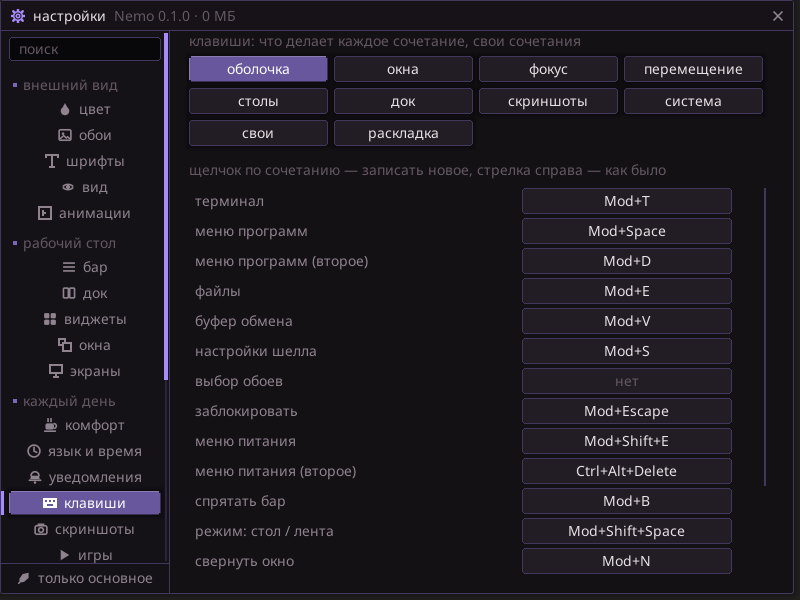
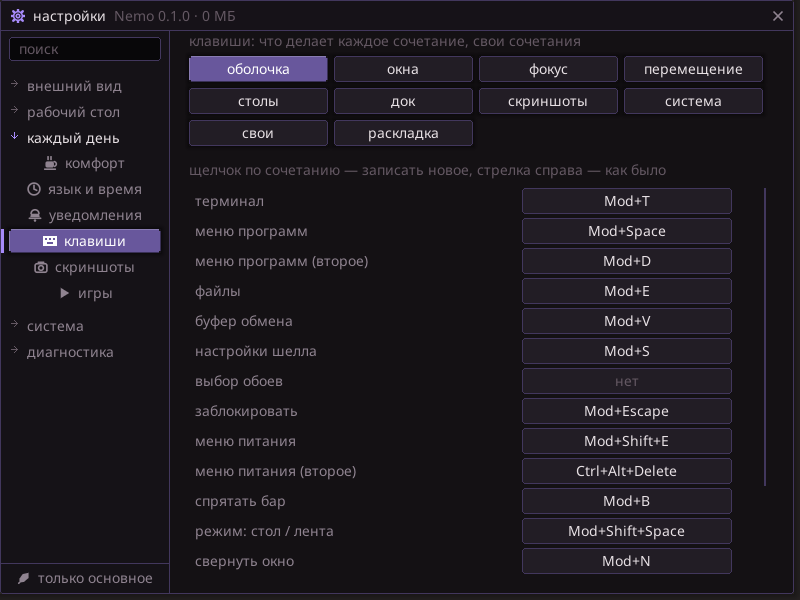
Settings side list opens one group, wheel steps, more personality, golden refresh

diff --git a/shell/src/personality.rs b/shell/src/personality.rs
@@ -15,31 +15,58 @@ pub enum Event {
     BatteryFull,
     CaffeineEnded,
     UpdateReady,
+    /// вернулся к заблокированному экрану
+    Unlocked,
+    /// очистил все уведомления (только в игривом режиме)
+    NotifsCleared,
 }
 
-const EVENTS: usize = 5;
+const EVENTS: usize = 7;
 
 impl Event {
+    /// эти события — только в игривом режиме: тихий характер говорит про систему, а не про каждое действие
+    fn playful_only(self) -> bool {
+        matches!(self, Event::Unlocked | Event::NotifsCleared)
+    }
+
     fn idx(self) -> usize {
         self as usize
     }
 }
 
-/// фраза про событие на языке интерфейса; None — на этом языке её нет
-pub fn quip(ev: Event, lang: &str) -> Option<&'static str> {
-    let (en, ar, ru) = match ev {
-        Event::ChargerOn => ("Plugged in. The tide is coming in.", "تم التوصيل. المدّ قادم.", "Подключено. Прилив начался."), // i18n-ok
-        Event::ChargerOff => ("Unplugged. Swimming on battery.", "فُصل الشاحن. نسبح على البطارية.", "Отключено. Плывём на батарее."), // i18n-ok
-        Event::BatteryFull => ("Full tank. You can unplug.", "اكتمل الشحن. يمكنك فصله.", "Полный бак. Можно отключать."), // i18n-ok
-        Event::CaffeineEnded => ("Your eyes could use a rest, too.", "عيناك أيضًا تحتاجان إلى راحة.", "И глазам пора отдохнуть."), // i18n-ok
-        Event::UpdateReady => ("Fresh water is ready.", "الماء العذب جاهز.", "Свежая вода готова."), // i18n-ok
-    };
-    match lang {
-        "en" => Some(en),
-        "ar" => Some(ar),
-        "ru" => Some(ru),
-        _ => None,
+/// фразы про событие на языке интерфейса; пустой список — на этом языке их нет. Их несколько: рыбка не повторяется слово в слово
+fn lines(ev: Event, lang: &str) -> &'static [&'static str] {
+    // i18n-ok: фразы характера лежат здесь на трёх языках, а не в таблицах перевода
+    match (ev, lang) {
+        (Event::ChargerOn, "en") => &["Plugged in. The tide is coming in.", "Charging. Back to the deep end soon.", "Power again. Take a breath."],
+        (Event::ChargerOn, "ar") => &["تم التوصيل. المدّ قادم.", "يجري الشحن. نعود إلى الأعماق قريبًا."],
+        (Event::ChargerOn, "ru") => &["Подключено. Прилив начался.", "Зарядка пошла. Скоро снова на глубину.", "Питание вернулось. Можно выдохнуть."], // i18n-ok
+        (Event::ChargerOff, "en") => &["Unplugged. Swimming on battery.", "Off the wall. Let's keep it short.", "On our own fins now."],
+        (Event::ChargerOff, "ar") => &["فُصل الشاحن. نسبح على البطارية.", "نسبح بزعانفنا وحدنا الآن."],
+        (Event::ChargerOff, "ru") => &["Отключено. Плывём на батарее.", "Без розетки. Давай недолго.", "Теперь на своих плавниках."], // i18n-ok
+        (Event::BatteryFull, "en") => &["Full tank. You can unplug.", "Topped up. The cable can rest."],
+        (Event::BatteryFull, "ar") => &["اكتمل الشحن. يمكنك فصله.", "امتلأ الخزان. يمكن للكابل أن يرتاح."],
+        (Event::BatteryFull, "ru") => &["Полный бак. Можно отключать.", "Налито до краёв. Кабель может отдохнуть."], // i18n-ok
+        (Event::CaffeineEnded, "en") => &["Your eyes could use a rest, too.", "Coffee's over. Screen can sleep again."],
+        (Event::CaffeineEnded, "ar") => &["عيناك أيضًا تحتاجان إلى راحة.", "انتهت القهوة. يمكن للشاشة أن تنام."],
+        (Event::CaffeineEnded, "ru") => &["И глазам пора отдохнуть.", "Кофе кончился. Экран снова может спать."], // i18n-ok
+        (Event::UpdateReady, "en") => &["Fresh water is ready.", "A cleaner tank is waiting for you."],
+        (Event::UpdateReady, "ar") => &["الماء العذب جاهز.", "ينتظرك حوض أنظف."],
+        (Event::UpdateReady, "ru") => &["Свежая вода готова.", "Чистый аквариум ждёт тебя."], // i18n-ok
+        (Event::Unlocked, "en") => &["Welcome back.", "There you are.", "Still here. Still swimming."],
+        (Event::Unlocked, "ar") => &["أهلًا بعودتك.", "ها أنت ذا."],
+        (Event::Unlocked, "ru") => &["С возвращением.", "Вот и ты.", "Я здесь. Всё ещё плаваю."], // i18n-ok
+        (Event::NotifsCleared, "en") => &["Clear water.", "All quiet. Nicely done.", "Nothing left to read."],
+        (Event::NotifsCleared, "ar") => &["ماء صافٍ.", "هدوء تام. أحسنت."],
+        (Event::NotifsCleared, "ru") => &["Вода чистая.", "Тишина. Славно.", "Читать больше нечего."], // i18n-ok
+        _ => &[],
     }
+}
+
+/// фраза про событие; `n` выбирает вариант (по времени), на языке без фраз — None
+pub fn quip(ev: Event, lang: &str, n: usize) -> Option<&'static str> {
+    let l = lines(ev, lang);
+    (!l.is_empty()).then(|| l[n % l.len()])
 }
 
 /// не чаще раза в это время вообще
@@ -56,7 +83,7 @@ pub struct Gate {
 impl Gate {
     /// можно ли сказать сейчас; если да — запоминает. busy: полный экран, трансляция или «не беспокоить»
     pub fn allow(&mut self, ev: Event, now: Instant, level: &str, busy: bool) -> bool {
-        if level == "off" || busy {
+        if level == "off" || busy || ev.playful_only() && level != "playful" {
             return false;
         }
         let spaced = |t: Option<Instant>, gap: Duration| t.is_none_or(|t| now.saturating_duration_since(t) >= gap);
@@ -74,7 +101,8 @@ impl crate::app::App {
     pub fn quip_for(&mut self, ev: Event) -> Option<String> {
         let busy = self.st.game.fullscreen || self.st.curtain.is_some() || self.st.set.dnd;
         // сначала язык: без фразы на нём лимит не тратится
-        let text = quip(ev, crate::i18n::code())?;
+        let n = std::time::SystemTime::now().duration_since(std::time::UNIX_EPOCH).map_or(0, |d| d.as_secs() as usize);
+        let text = quip(ev, crate::i18n::code(), n)?;
         self.st.quip.allow(ev, Instant::now(), &self.st.set.personality, busy).then(|| text.to_string())
     }
 
@@ -106,20 +134,35 @@ impl crate::app::App {
 mod tests {
     use super::*;
 
-    const ALL: [Event; EVENTS] = [Event::ChargerOn, Event::ChargerOff, Event::BatteryFull, Event::CaffeineEnded, Event::UpdateReady];
+    const ALL: [Event; EVENTS] = [Event::ChargerOn, Event::ChargerOff, Event::BatteryFull, Event::CaffeineEnded, Event::UpdateReady, Event::Unlocked, Event::NotifsCleared];
 
     #[test]
     fn every_event_speaks_english_arabic_and_russian_and_no_other_language() {
         for e in ALL {
             for l in ["en", "ar", "ru"] {
-                assert!(quip(e, l).is_some_and(|s| s.len() > 8), "{e:?} {l}");
+                assert!(quip(e, l, 0).is_some_and(|s| s.len() > 8), "{e:?} {l}");
+                assert!(lines(e, l).len() >= 2, "{e:?} {l}: more than one way to say it");
             }
             for l in ["de", "fr", "es", "pt-BR", "uk", "pl", ""] {
-                assert_eq!(quip(e, l), None, "{e:?} must stay silent in {l}, not fall back to English");
+                assert_eq!(quip(e, l, 0), None, "{e:?} must stay silent in {l}, not fall back to English");
             }
         }
         // арабский — арабскими буквами, не копия английского
-        assert!(quip(Event::ChargerOn, "ar").unwrap().chars().any(|c| ('\u{0600}'..='\u{06ff}').contains(&c)));
+        assert!(quip(Event::ChargerOn, "ar", 0).unwrap().chars().any(|c| ('\u{0600}'..='\u{06ff}').contains(&c)));
+    }
+
+    #[test]
+    fn variants_rotate_and_wrap() {
+        assert_ne!(quip(Event::Unlocked, "en", 0), quip(Event::Unlocked, "en", 1));
+        assert_eq!(quip(Event::Unlocked, "en", 0), quip(Event::Unlocked, "en", 3));
+    }
+
+    #[test]
+    fn small_talk_only_in_playful_mode() {
+        let (mut g, t) = (Gate::default(), Instant::now());
+        assert!(!g.allow(Event::Unlocked, t, "quiet", false));
+        assert!(!g.allow(Event::NotifsCleared, t, "quiet", false));
+        assert!(g.allow(Event::Unlocked, t, "playful", false));
     }
 
     #[test]

diff --git a/shell/src/settings.rs b/shell/src/settings.rs
@@ -71,7 +71,7 @@ pub const GROUPS: &[(&str, &[Tab])] = &[
     (
         "система",
         &[
-            tab("system", "система", "gear", "система язык сон блокировка ожидание ночной свет system language idle sleep lock night light sistema idioma língua português brasileiro brasil suspender bloqueio inatividade luz noturna", tab_system), // i18n-ok
+            tab("system", "сеанс", "gear", "система язык сон блокировка ожидание ночной свет system language idle sleep lock night light sistema idioma língua português brasileiro brasil suspender bloqueio inatividade luz noturna", tab_system), // i18n-ok
             tab("startup", "автозапуск", "play", "автозапуск запуск при входе программы сеанс startup autostart login apps session inicialização iniciar programas sessão", crate::startup::tab), // i18n-ok
             tab("login", "экран входа", "lock", "экран входа вход логин greetd пользователи пароль numlock вуаль менеджер входа login screen greeter display manager users password numlock veil tela de login entrada greetd usuários senha numlock véu gerenciador de login", crate::login::tab), // i18n-ok
             tab("bt", "bluetooth", "bt", "bluetooth блютуз наушники колонки мышь клавиатура сопряжение подключить забыть заряд bluetooth headphones speaker mouse keyboard pair connect forget battery fones caixa de som mouse teclado parear conectar esquecer bateria", crate::bttab::tab), // i18n-ok
@@ -231,13 +231,27 @@ pub fn draw(ui: &mut Ui, st: &State, w: i32, h: i32) {
     ui.field(R::new(side.x + 8, side.y + 6, side.w - 16, 24), &st.search_field, "поиск", focused, false, Act::SField("set_search"));
     ui.cv.push_clip(R::new(side.x, side.y + SEARCH_H, side.w, side.h - SEARCH_H - FOOT_H));
     let mut y = side.y + SEARCH_H + 8 - st.stab_scroll;
+    // раскрыта группа открытой вкладки (щелчок по другой группе открывает её первую вкладку); при поиске — все, где есть совпадения.
+    // Так список всегда умещается в окно: пять заголовков и вкладки одной группы, а не тридцать строк с прокруткой
+    let searching = !query.trim().is_empty();
     for (gname, tabs) in GROUPS {
-        if !tabs.iter().any(|tb| listed(st, tb, &query)) {
+        let Some(first) = tabs.iter().find(|tb| listed(st, tb, &query)) else { continue };
+        let open = searching || tabs.iter().any(|tb| tb.id == st.stab);
+        let hr = R::new(side.x + 6, y, side.w - 12, HEAD_H + 2);
+        let hov = ui.hover(hr);
+        if hov {
+            ui.cv.fill(hr, t.surface_hi.alpha(0.4));
+        }
+        ui.cv.icon(if open { "down" } else { "right" }, side.x + 10, y + 5, 1, if open { t.red } else { t.text_faint });
+        ui.text_in(PX, R::new(side.x + 26, y, side.w - 36, HEAD_H), gname, if open { t.text } else { t.text_dim });
+        if !open {
+            ui.zone(hr, Act::STab(first.id), Cur::Pointer);
+        }
+        y += HEAD_H + 2;
+        if !open {
+            y += 2;
             continue;
         }
-        ui.cv.fill(R::new(side.x + 12, y + 8, 4, 4), t.red.alpha(0.7));
-        ui.text_in(PX, R::new(side.x + 22, y, side.w - 30, HEAD_H - 4), gname, t.text_faint);
-        y += HEAD_H;
         // вкладки модулей, которых нет (скриншоты без nemo-shot, экран входа без nemo-greet), прячутся
         for tb in tabs.iter().filter(|tb| listed(st, tb, &query)) {
             let r = R::new(side.x + 8, y, side.w - 16, ROW_H - 2);
@@ -247,7 +261,7 @@ pub fn draw(ui: &mut Ui, st: &State, w: i32, h: i32) {
             }
             y += ROW_H;
         }
-        y += 6;
+        y += 8;
     }
     let side_full = y + st.stab_scroll - side.y;
     st.stab_h.set(side_full);

diff --git a/shell/src/click.rs b/shell/src/click.rs
@@ -229,6 +229,9 @@ impl App {
                 self.st.notifs.leaving.clear();
                 self.sync_notifs();
                 self.resize_popup();
+                if let Some(q) = self.quip_for(crate::personality::Event::NotifsCleared) {
+                    self.toast_note("Nemo", &q);
+                }
             }
             Act::NotifDel(id) => {
                 self.st.notifs.remove(id, kind == Some(SKind::Popup));

diff --git a/shell/src/lock.rs b/shell/src/lock.rs
@@ -115,6 +115,9 @@ impl App {
             self.sync_widgets();
             self.sync_titles();
             self.sync_dock();
+            if let Some(q) = self.quip_for(crate::personality::Event::Unlocked) {
+                self.toast_note("Nemo", &q);
+            }
         } else {
             self.st.lock_fails += 1;
             self.st.lock_field.wipe();

diff --git a/CHANGELOG.ru.md b/CHANGELOG.ru.md
@@ -9,6 +9,10 @@
 
 ## Не выпущено
 
+- Прокрутка: тачпад больше не считает каждое мелкое движение целым шагом. Щелчки мыши листают как раньше; в Файлах список едет за пальцем, а масштаб, громкость, перемотка и списки шелла копят сдвиги до целых шагов (общий `nemo_px::wheel`, 3.2.2).
+- Настройки: в левом списке раскрыта только группа открытой вкладки, остальные — по одной строке, список умещается в окно; «система» внутри группы «система» теперь «сеанс».
+- Характер: на каждое событие две-три фразы, они чередуются; в режиме `playful` рыбка ещё здоровается при разблокировке и говорит слово, когда очистил все уведомления.
+
 - Файлы: **пакетное переименование** (выдели несколько файлов и нажми F2: найти и заменить, регистр, номера, приписки в начале и в конце, предпросмотр на лету, конфликты видны до переименования, одна отмена); **фильтры по виду** в поле фильтра (`:картинки :видео :музыка :документы :архивы :код :папки`); **содержимое архива** в панели сведений; **пауза и продолжение** для долгого копирования, переноса, распаковки и сжатия; **что занимает место** в главном меню (размер каждого элемента папки, тяжёлые сверху).
 
 - Настройки разложены заново (ничего не убрано): пять групп (внешний вид, рабочий стол, каждый день, система, диагностика), «действия» влиты в «каждый день»; у каждой вкладки строка-описание под заголовком окна; внизу списка вкладок «только основное» (`settingsSimple`) прячет глубокие вкладки, поиск по-прежнему находит всё. Новая вкладка «состояние» (диагностика): что запущено и сколько памяти занимает, каких программ, на которые опирается Nemo, не хватает, версии, правило подписей и журнал установок вопреки подписи, кнопки папок настроек и журналов и архива-отчёта для issue.

diff --git a/CHANGELOG.md b/CHANGELOG.md
@@ -9,6 +9,10 @@ has its Russian line in CHANGELOG.ru.md: `tools/check.sh` checks that.
 
 ## Unreleased
 
+- Scrolling: a touchpad swipe no longer counts every tiny movement as a full step. Mouse notches scroll as before; touchpad movement now follows the finger in Files and adds up to whole steps for zoom, volume, seek and the shell's lists (shared `nemo_px::wheel`, 3.2.2).
+- Settings: only the open tab's group is expanded in the side list (the others are one line each), so the list fits the window; «system» inside the system group is now called «session».
+- Personality: each event has two or three phrases that take turns; in `playful` mode the fish also says hello when you unlock and a word when you clear all notifications.
+
 - Files: **batch rename** (select several files and press F2: find and replace, case, numbers, text before and after, a live preview, conflicts caught before anything is renamed, one undo); **filters by type** in the filter field (`:images :video :audio :docs :archives :code :folders`); the **contents of an archive** in the info panel; **pause and resume** for long copies, moves, extractions and compression; **what takes the space** in the main menu (size of every item of the folder, heaviest first).
 
 - Settings reorganised (nothing removed): five groups (appearance, desktop, every day, system, diagnostics) with «actions» folded into «every day»; every tab has a one-line description under the window header; the bottom of the tab list has «essentials only» (`settingsSimple`) to hide the deeper tabs, search still finds everything. A new tab, «status» (diagnostics): what is running and how much memory it takes, which programs Nemo relies on are missing, versions, the signature policy and the log of installs made despite a signature, buttons for the settings and logs folders and for an issue report archive.

diff --git a/docs/CONFIG.ru.md b/docs/CONFIG.ru.md
@@ -107,7 +107,7 @@ nemo-shell binds list | print | write     # сочетания клавиш
 | `caffeineAuto` | `false` | включать кофе, пока окно на весь экран, и выключать, когда оно ушло |
 | `notifMuted` | `""` | программы, чьи уведомления не всплывают, а идут в историю (через запятую) |
 | `island` | `false` | уведомления и громкость пилюлями вверху по центру под баром |
-| `personality` | `"quiet"` | рыбка говорит о зарядке, кофе и обновлениях: `off` (молчит), `quiet` (только системные события), `playful` (пока то же; строки для пустых панелей — дальше) |
+| `personality` | `"quiet"` | рыбка говорит о зарядке, кофе и обновлениях: `off` (молчит), `quiet` (только системные события), `playful` (ещё приветствие при разблокировке и слово, когда очистил все уведомления). На каждое событие две-три фразы, они чередуются |
 | `palette` | `"nemo"` | набор: `nemo` (сирень на графите) `blood` `ash` `sakura` `amber` `venom` `ice` `dusk` |
 | `accent` | `""` | свой акцент `#rrggbb`; пусто — акцент набора |
 | `preset` | `"nemo"` | стиль всех модулей: `nemo` (пиксельный) или `plain` (нейтральный), [подробности](#вид-всех-модулей) |

diff --git a/docs/CONFIG.md b/docs/CONFIG.md
@@ -106,7 +106,7 @@ file for one run. The files are reread when they change.
 | `caffeineAuto` | `false` | turn the coffee on while a window is fullscreen, off when it leaves |
 | `notifMuted` | `""` | apps whose notifications skip the popup and go to history (comma separated) |
 | `island` | `false` | notifications and volume popups as pills at the top centre under the bar |
-| `personality` | `"quiet"` | the fish speaks on charger, caffeine and update events: `off` (never), `quiet` (system events only), `playful` (the same for now; empty-panel lines come next) |
+| `personality` | `"quiet"` | the fish speaks on charger, caffeine and update events: `off` (never), `quiet` (system events only), `playful` (also a hello when you unlock the screen and a word when you clear all notifications). Each event has two or three phrases that take turns |
 | `palette` | `"nemo"` | preset: `nemo` (lavender on graphite) `blood` `ash` `sakura` `amber` `venom` `ice` `dusk` |
 | `accent` | `""` | own accent `#rrggbb`; empty: the preset's |
 | `preset` | `"nemo"` | the style of every module: `nemo` (pixel) or `plain` (neutral), [details](#the-look-of-every-module) |
